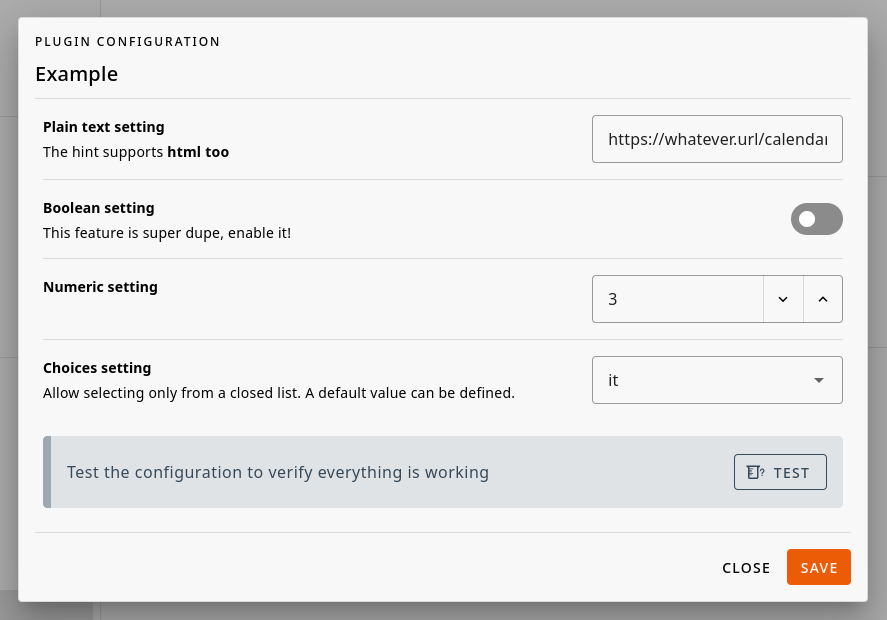
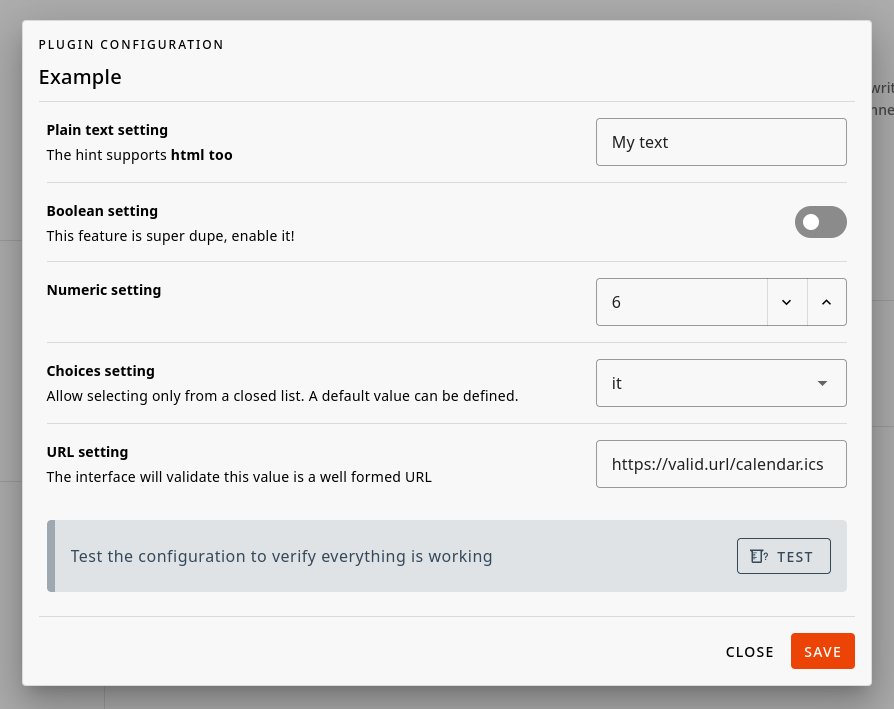
docs(blog): new plugin system in version 2

diff --git a/server/cli/index.ts b/server/cli/index.ts
@@ -4,7 +4,7 @@ import { hideBin } from 'yargs/helpers'
 import { connect, runMigrations } from '../services/db'
 import usersCLI from './users'
 import settingsCLI from './settings'
-// import pluginsCLI from './plugins'
+import pluginsCLI from './plugins'
 import { fileURLToPath } from 'url'
 import { isBuild } from '../services/config'
 
@@ -46,7 +46,7 @@ yarg
   })
   .command(['users'], 'Manage users', usersCLI)
   .command(['settings'], 'Manage settings', settingsCLI)
-  // .command(['plugins'], 'Manage plugins', pluginsCLI)
+  .command(['plugins'], 'Manage plugins', pluginsCLI)
   .help('h')
   .alias('h', 'help')
   .epilog('Made with ❤ by underscore hacklab - https://gancio.org')

diff --git a/server/cli/plugins.ts b/server/cli/plugins.ts
@@ -7,7 +7,6 @@ async function list() {
     console.error('Error initializing plugins:', err)
     return []
   })
-  console.log()
   // also filter out rejected plugins
   for (const pluginResult of plugins) {
     if (pluginResult.status === 'rejected') {
@@ -16,7 +15,7 @@ async function list() {
     }
     const plugin = pluginResult.value
     if (!plugin) continue
-    console.log(`[${plugin.manifest.name}]\r\n > ${plugin.manifest.description}`)
+    console.log(`\r\n[${plugin.manifest.name}]\r\n${plugin.manifest.description}\r\n`)
   }
   console.log()
   await db.close()

diff --git a/server/services/plugins.ts b/server/services/plugins.ts
@@ -426,7 +426,11 @@ export class PluginController {
 
     log.debug(`Initializing default plugins from: ${[...pluginsPaths]}`)
 
-    return [...pluginsPaths].map(pluginPath => this.initializePluginsFromPath(pluginPath, loadIfEnabled))
+    const plugins = await Promise.all(
+      [...pluginsPaths].map(path => this.initializePluginsFromPath(path, loadIfEnabled))
+    )
+
+    return plugins.flat()
   }
 
   async initializePluginsFromPath(pluginsPath: string, loadIfEnabled: boolean) {

diff --git a/docs/.vitepress/theme/style.css b/docs/.vitepress/theme/style.css
@@ -73,7 +73,7 @@
   --vp-custom-block-font-size: 18px;
   /*--vp-c-bg: rgba(255, 62, 62, 0.1);*/
   /*--vp-c-bg-alt: #f9f2ec;   /* sidebar, code blocks, etc. */
-  
+
 }
 
 .v-application { background: transparent !important; }
@@ -139,7 +139,7 @@
 
 
 figure {
-  margin: 50px auto;
+  margin: 24px auto;
 }
 
 figure > img {

diff --git a/docs/blog/2026-10-29-new-plugin-system.md b/docs/blog/2026-10-29-new-plugin-system.md
@@ -1,0 +1,54 @@
+---
+title: "A new plugin system in version 2"
+date: 2026-10-29
+editLink: false
+aside: false
+next: false
+---
+
+With Gancio 2.0 comes a new and improved plugin system.
+
+The first and more important thing you need to know is that plugins developed for v1 **won't be compatible** with the v2. However there's a good news for plugin maintainers: updating existing plugins should require only a few **small changes**.
+
+The main change is that now the plugin should export a function instead of an object. This function will provide the plugin all needed services from Gancio making it easier to develop and to integrate with the internals.
+
+Read the [plugins documentation](/dev/plugins) to see some examples.
+
+## Features
+
+In terms of features, we've introduced a new interface for the plugins administration panel!
+
+![Plugins list](/dev/plugins_admin_panel.png)
+
+
+Also the plugins configuration view debuts with a new interface, easier to read and understand for new instance administrators. And mobile friendly!
+
+![Plugin settings](/dev/plugin_settings.png)
+
+There is a new input type `URL`, that only let's the user save valid URLs. The `NUMBER` type now has optional `min` and `max` options and a better numeric input.
+
+Along with these new features, the core system of plugins has been completely rewritten to make it more robust and reliable, with the possibility to keep expanding it in the future and to use [exposed services](/dev/plugins#exposed-services-help-needed) directly from the core.
+
+Finally, we've added the ability to interact with plugins via the CLI using the `onCLI` hook.
+
+
+## Included plugins
+Gancio already comes with a couple of plugins included in the default installation (this list will hopefully be longer in a while):
+
+- **Feed**:
+Get events from specified ICS/iCal feed.
+
+- **Webhook**:
+Allows Gancio to notify external services about events through webhooks, making it easier to integrate with other platforms and automate workflows (small suggestion here: there is an easy-to-use debian package called webhook to experiment with).
+
+## Write custom plugins
+It is working again the possibility to load custom plugins from a local path (by default `./plugins`), this is the way to install and develop custom plugins.
+Note that the community has developed additional plugins to connect Gancio with other platforms that needs a review so any help with testing is appreciated:
+
+- [Telegram Bridge](https://framagit.org/bcn.convocala/gancio-plugin-telegram-bridge/-/merge_requests/12)
+- [Discord Bridge](https://git.gay/kviriem/gancio-plugin-discord)
+- [Bluesky Bridge](https://framagit.org/coegho/gancio-plugin-bluesky-bridge)
+- [Nostr](https://framagit.org/les/gancio/-/work_items/681) (just an idea)
+
+
+As always, thanks a lot to everyone who contributes to making this possible!
